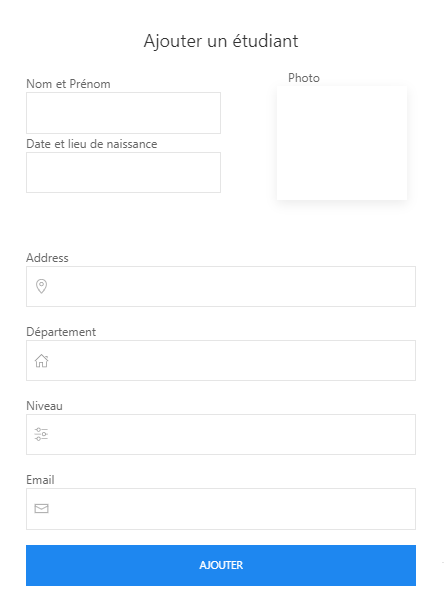
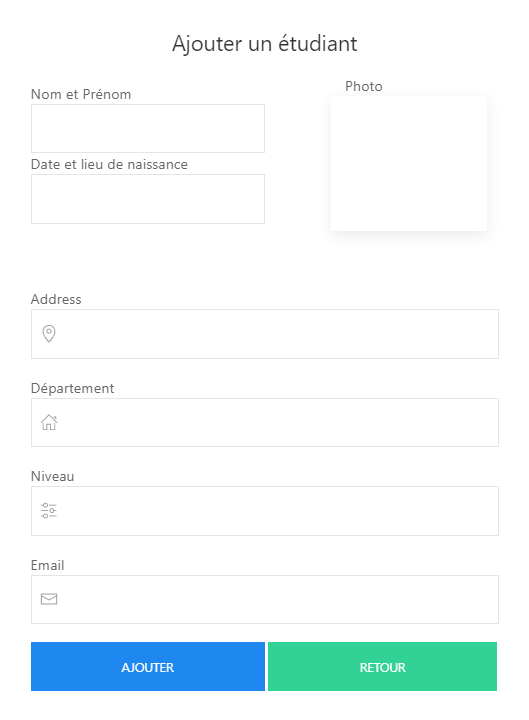
Hamza | Ajouter unite interface

diff --git a/gestionairetudiant/src/gestionairetudiant/AjouterUnite.java b/gestionairetudiant/src/gestionairetudiant/AjouterUnite.java
@@ -1,0 +1,114 @@
+/*
+ * To change this license header, choose License Headers in Project Properties.
+ * To change this template file, choose Tools | Templates
+ * and open the template in the editor.
+ */
+package gestionairetudiant;
+
+/**
+ *
+ * @author Elias
+ */
+public class AjouterUnite extends javax.swing.JFrame {
+
+    /**
+     * Creates new form AjouterUnite
+     */
+    public AjouterUnite() {
+        initComponents();
+    }
+
+    /**
+     * This method is called from within the constructor to initialize the form.
+     * WARNING: Do NOT modify this code. The content of this method is always
+     * regenerated by the Form Editor.
+     */
+    @SuppressWarnings("unchecked")
+    // <editor-fold defaultstate="collapsed" desc="Generated Code">//GEN-BEGIN:initComponents
+    private void initComponents() {
+
+        UnityNom = new javax.swing.JTextField();
+        Abr = new javax.swing.JTextField();
+        Credit = new javax.swing.JTextField();
+        Coeff = new javax.swing.JTextField();
+        AddUniBn = new javax.swing.JButton();
+        retournUni = new javax.swing.JButton();
+        BgAdU = new javax.swing.JLabel();
+
+        setDefaultCloseOperation(javax.swing.WindowConstants.EXIT_ON_CLOSE);
+        getContentPane().setLayout(new org.netbeans.lib.awtextra.AbsoluteLayout());
+
+        UnityNom.setFont(new java.awt.Font("Tahoma", 0, 16)); // NOI18N
+        UnityNom.setBorder(javax.swing.BorderFactory.createEmptyBorder(1, 1, 1, 1));
+        getContentPane().add(UnityNom, new org.netbeans.lib.awtextra.AbsoluteConstraints(70, 120, 340, 40));
+
+        Abr.setFont(new java.awt.Font("Tahoma", 0, 16)); // NOI18N
+        Abr.setBorder(javax.swing.BorderFactory.createEmptyBorder(1, 1, 1, 1));
+        getContentPane().add(Abr, new org.netbeans.lib.awtextra.AbsoluteConstraints(70, 200, 340, 40));
+
+        Credit.setFont(new java.awt.Font("Tahoma", 0, 16)); // NOI18N
+        Credit.setBorder(javax.swing.BorderFactory.createEmptyBorder(1, 1, 1, 1));
+        getContentPane().add(Credit, new org.netbeans.lib.awtextra.AbsoluteConstraints(70, 280, 340, 40));
+
+        Coeff.setFont(new java.awt.Font("Tahoma", 0, 16)); // NOI18N
+        Coeff.setBorder(javax.swing.BorderFactory.createEmptyBorder(1, 1, 1, 1));
+        getContentPane().add(Coeff, new org.netbeans.lib.awtextra.AbsoluteConstraints(70, 360, 340, 40));
+
+        AddUniBn.setIcon(new javax.swing.ImageIcon(getClass().getResource("/img/AddUnitBn.png"))); // NOI18N
+        AddUniBn.setBorder(javax.swing.BorderFactory.createEmptyBorder(1, 1, 1, 1));
+        getContentPane().add(AddUniBn, new org.netbeans.lib.awtextra.AbsoluteConstraints(223, 432, 200, 50));
+
+        retournUni.setIcon(new javax.swing.ImageIcon(getClass().getResource("/img/returUnitBn.png"))); // NOI18N
+        getContentPane().add(retournUni, new org.netbeans.lib.awtextra.AbsoluteConstraints(867, 472, 380, 60));
+
+        BgAdU.setIcon(new javax.swing.ImageIcon(getClass().getResource("/img/AddUnity.png"))); // NOI18N
+        getContentPane().add(BgAdU, new org.netbeans.lib.awtextra.AbsoluteConstraints(-1, 1, 1260, 540));
+
+        pack();
+    }// </editor-fold>//GEN-END:initComponents
+
+    /**
+     * @param args the command line arguments
+     */
+    public static void main(String args[]) {
+        /* Set the Nimbus look and feel */
+        //<editor-fold defaultstate="collapsed" desc=" Look and feel setting code (optional) ">
+        /* If Nimbus (introduced in Java SE 6) is not available, stay with the default look and feel.
+         * For details see http://download.oracle.com/javase/tutorial/uiswing/lookandfeel/plaf.html 
+         */
+        try {
+            for (javax.swing.UIManager.LookAndFeelInfo info : javax.swing.UIManager.getInstalledLookAndFeels()) {
+                if ("Nimbus".equals(info.getName())) {
+                    javax.swing.UIManager.setLookAndFeel(info.getClassName());
+                    break;
+                }
+            }
+        } catch (ClassNotFoundException ex) {
+            java.util.logging.Logger.getLogger(AjouterUnite.class.getName()).log(java.util.logging.Level.SEVERE, null, ex);
+        } catch (InstantiationException ex) {
+            java.util.logging.Logger.getLogger(AjouterUnite.class.getName()).log(java.util.logging.Level.SEVERE, null, ex);
+        } catch (IllegalAccessException ex) {
+            java.util.logging.Logger.getLogger(AjouterUnite.class.getName()).log(java.util.logging.Level.SEVERE, null, ex);
+        } catch (javax.swing.UnsupportedLookAndFeelException ex) {
+            java.util.logging.Logger.getLogger(AjouterUnite.class.getName()).log(java.util.logging.Level.SEVERE, null, ex);
+        }
+        //</editor-fold>
+
+        /* Create and display the form */
+        java.awt.EventQueue.invokeLater(new Runnable() {
+            public void run() {
+                new AjouterUnite().setVisible(true);
+            }
+        });
+    }
+
+    // Variables declaration - do not modify//GEN-BEGIN:variables
+    private javax.swing.JTextField Abr;
+    private javax.swing.JButton AddUniBn;
+    private javax.swing.JLabel BgAdU;
+    private javax.swing.JTextField Coeff;
+    private javax.swing.JTextField Credit;
+    private javax.swing.JTextField UnityNom;
+    private javax.swing.JButton retournUni;
+    // End of variables declaration//GEN-END:variables
+}

diff --git a/gestionairetudiant/src/gestionairetudiant/AjouterEtud.java b/gestionairetudiant/src/gestionairetudiant/AjouterEtud.java
@@ -27,16 +27,69 @@ public class AjouterEtud extends javax.swing.JFrame {
     // <editor-fold defaultstate="collapsed" desc="Generated Code">//GEN-BEGIN:initComponents
     private void initComponents() {
 
+        NomEtPrenom = new javax.swing.JTextField();
+        DatLieuNaissance = new javax.swing.JTextField();
+        Adrress = new javax.swing.JTextField();
+        Depert = new javax.swing.JTextField();
+        Niveau = new javax.swing.JTextField();
+        Email = new javax.swing.JTextField();
+        AjouterBn = new javax.swing.JButton();
+        uploadPhoto = new javax.swing.JLabel();
+        PhotoLabl = new javax.swing.JLabel();
+        Retour = new javax.swing.JButton();
         bgA = new javax.swing.JLabel();
 
         setDefaultCloseOperation(javax.swing.WindowConstants.EXIT_ON_CLOSE);
         getContentPane().setLayout(new org.netbeans.lib.awtextra.AbsoluteLayout());
 
+        NomEtPrenom.setFont(new java.awt.Font("Tahoma", 0, 16)); // NOI18N
+        NomEtPrenom.setBorder(javax.swing.BorderFactory.createEmptyBorder(1, 1, 1, 1));
+        getContentPane().add(NomEtPrenom, new org.netbeans.lib.awtextra.AbsoluteConstraints(50, 114, 200, 30));
+
+        DatLieuNaissance.setFont(new java.awt.Font("Tahoma", 0, 16)); // NOI18N
+        DatLieuNaissance.setBorder(javax.swing.BorderFactory.createEmptyBorder(1, 1, 1, 1));
+        getContentPane().add(DatLieuNaissance, new org.netbeans.lib.awtextra.AbsoluteConstraints(50, 184, 200, 30));
+
+        Adrress.setFont(new java.awt.Font("Tahoma", 0, 16)); // NOI18N
+        Adrress.setBorder(javax.swing.BorderFactory.createEmptyBorder(1, 1, 1, 1));
+        getContentPane().add(Adrress, new org.netbeans.lib.awtextra.AbsoluteConstraints(80, 319, 400, 30));
+
+        Depert.setFont(new java.awt.Font("Tahoma", 0, 16)); // NOI18N
+        Depert.setBorder(javax.swing.BorderFactory.createEmptyBorder(1, 1, 1, 1));
+        getContentPane().add(Depert, new org.netbeans.lib.awtextra.AbsoluteConstraints(80, 405, 410, 30));
+
+        Niveau.setFont(new java.awt.Font("Tahoma", 0, 16)); // NOI18N
+        Niveau.setBorder(javax.swing.BorderFactory.createEmptyBorder(1, 1, 1, 1));
+        getContentPane().add(Niveau, new org.netbeans.lib.awtextra.AbsoluteConstraints(80, 495, 400, 30));
+
+        Email.setFont(new java.awt.Font("Tahoma", 0, 16)); // NOI18N
+        Email.setBorder(javax.swing.BorderFactory.createEmptyBorder(1, 1, 1, 1));
+        getContentPane().add(Email, new org.netbeans.lib.awtextra.AbsoluteConstraints(70, 585, 410, 30));
+
+        AjouterBn.setIcon(new javax.swing.ImageIcon(getClass().getResource("/img/AddEtudBn.png"))); // NOI18N
+        getContentPane().add(AjouterBn, new org.netbeans.lib.awtextra.AbsoluteConstraints(25, 642, 240, 50));
+
+        uploadPhoto.setIcon(new javax.swing.ImageIcon(getClass().getResource("/img/Upload.png"))); // NOI18N
+        getContentPane().add(uploadPhoto, new org.netbeans.lib.awtextra.AbsoluteConstraints(340, 250, 130, 20));
+        getContentPane().add(PhotoLabl, new org.netbeans.lib.awtextra.AbsoluteConstraints(350, 107, 120, 110));
+
+        Retour.setIcon(new javax.swing.ImageIcon(getClass().getResource("/img/RetAjoEtuBn.png"))); // NOI18N
+        Retour.addActionListener(new java.awt.event.ActionListener() {
+            public void actionPerformed(java.awt.event.ActionEvent evt) {
+                RetourActionPerformed(evt);
+            }
+        });
+        getContentPane().add(Retour, new org.netbeans.lib.awtextra.AbsoluteConstraints(268, 641, 230, 50));
+
         bgA.setIcon(new javax.swing.ImageIcon(getClass().getResource("/img/AjouterEtudBg.png"))); // NOI18N
-        getContentPane().add(bgA, new org.netbeans.lib.awtextra.AbsoluteConstraints(0, 0, -1, -1));
+        getContentPane().add(bgA, new org.netbeans.lib.awtextra.AbsoluteConstraints(0, 0, 530, -1));
 
         pack();
     }// </editor-fold>//GEN-END:initComponents
+
+    private void RetourActionPerformed(java.awt.event.ActionEvent evt) {//GEN-FIRST:event_RetourActionPerformed
+        // TODO add your handling code here:
+    }//GEN-LAST:event_RetourActionPerformed
 
     /**
      * @param args the command line arguments
@@ -74,6 +127,16 @@ public class AjouterEtud extends javax.swing.JFrame {
     }
 
     // Variables declaration - do not modify//GEN-BEGIN:variables
+    private javax.swing.JTextField Adrress;
+    private javax.swing.JButton AjouterBn;
+    private javax.swing.JTextField DatLieuNaissance;
+    private javax.swing.JTextField Depert;
+    private javax.swing.JTextField Email;
+    private javax.swing.JTextField Niveau;
+    private javax.swing.JTextField NomEtPrenom;
+    private javax.swing.JLabel PhotoLabl;
+    private javax.swing.JButton Retour;
     private javax.swing.JLabel bgA;
+    private javax.swing.JLabel uploadPhoto;
     // End of variables declaration//GEN-END:variables
 }

diff --git a/gestionairetudiant/src/gestionairetudiant/Register.java b/gestionairetudiant/src/gestionairetudiant/Register.java
@@ -38,17 +38,21 @@ public class Register extends javax.swing.JFrame {
         setDefaultCloseOperation(javax.swing.WindowConstants.EXIT_ON_CLOSE);
         getContentPane().setLayout(new org.netbeans.lib.awtextra.AbsoluteLayout());
 
+        NomPrenom.setFont(new java.awt.Font("Tahoma", 0, 16)); // NOI18N
         NomPrenom.setBorder(javax.swing.BorderFactory.createEmptyBorder(1, 1, 1, 1));
-        getContentPane().add(NomPrenom, new org.netbeans.lib.awtextra.AbsoluteConstraints(89, 110, 310, 40));
+        getContentPane().add(NomPrenom, new org.netbeans.lib.awtextra.AbsoluteConstraints(80, 106, 320, 40));
 
+        Depert.setFont(new java.awt.Font("Tahoma", 0, 16)); // NOI18N
         Depert.setBorder(javax.swing.BorderFactory.createEmptyBorder(1, 1, 1, 1));
-        getContentPane().add(Depert, new org.netbeans.lib.awtextra.AbsoluteConstraints(89, 210, 310, 40));
+        getContentPane().add(Depert, new org.netbeans.lib.awtextra.AbsoluteConstraints(80, 205, 320, 40));
 
+        Email.setFont(new java.awt.Font("Tahoma", 0, 16)); // NOI18N
         Email.setBorder(javax.swing.BorderFactory.createEmptyBorder(1, 1, 1, 1));
-        getContentPane().add(Email, new org.netbeans.lib.awtextra.AbsoluteConstraints(89, 310, 310, 40));
+        getContentPane().add(Email, new org.netbeans.lib.awtextra.AbsoluteConstraints(80, 305, 320, 40));
 
+        Passwd.setFont(new java.awt.Font("Tahoma", 0, 16)); // NOI18N
         Passwd.setBorder(javax.swing.BorderFactory.createEmptyBorder(1, 1, 1, 1));
-        getContentPane().add(Passwd, new org.netbeans.lib.awtextra.AbsoluteConstraints(89, 410, 310, 40));
+        getContentPane().add(Passwd, new org.netbeans.lib.awtextra.AbsoluteConstraints(80, 403, 320, 40));
 
         Register.setIcon(new javax.swing.ImageIcon(getClass().getResource("/img/RegisterBn.png"))); // NOI18N
         Register.setBorder(javax.swing.BorderFactory.createEmptyBorder(1, 1, 1, 1));
@@ -71,7 +75,7 @@ public class Register extends javax.swing.JFrame {
         getContentPane().add(Annuler, new org.netbeans.lib.awtextra.AbsoluteConstraints(225, 470, 190, 60));
 
         Bg.setIcon(new javax.swing.ImageIcon(getClass().getResource("/img/RegisterBg.png"))); // NOI18N
-        getContentPane().add(Bg, new org.netbeans.lib.awtextra.AbsoluteConstraints(0, 0, 440, 550));
+        getContentPane().add(Bg, new org.netbeans.lib.awtextra.AbsoluteConstraints(0, 0, -1, 550));
 
         pack();
     }// </editor-fold>//GEN-END:initComponents

diff --git a/gestionairetudiant/src/gestionairetudiant/Login.java b/gestionairetudiant/src/gestionairetudiant/Login.java
@@ -40,6 +40,7 @@ public class Login extends javax.swing.JFrame {
         setResizable(false);
         getContentPane().setLayout(new org.netbeans.lib.awtextra.AbsoluteLayout());
 
+        Lgemail.setFont(new java.awt.Font("Tahoma", 0, 18)); // NOI18N
         Lgemail.setBorder(javax.swing.BorderFactory.createEmptyBorder(1, 1, 1, 1));
         Lgemail.addActionListener(new java.awt.event.ActionListener() {
             public void actionPerformed(java.awt.event.ActionEvent evt) {
@@ -48,6 +49,7 @@ public class Login extends javax.swing.JFrame {
         });
         getContentPane().add(Lgemail, new org.netbeans.lib.awtextra.AbsoluteConstraints(90, 90, 310, 50));
 
+        LgPwd.setFont(new java.awt.Font("Tahoma", 0, 18)); // NOI18N
         LgPwd.setBorder(javax.swing.BorderFactory.createEmptyBorder(1, 1, 1, 1));
         getContentPane().add(LgPwd, new org.netbeans.lib.awtextra.AbsoluteConstraints(90, 170, 310, 40));
 
